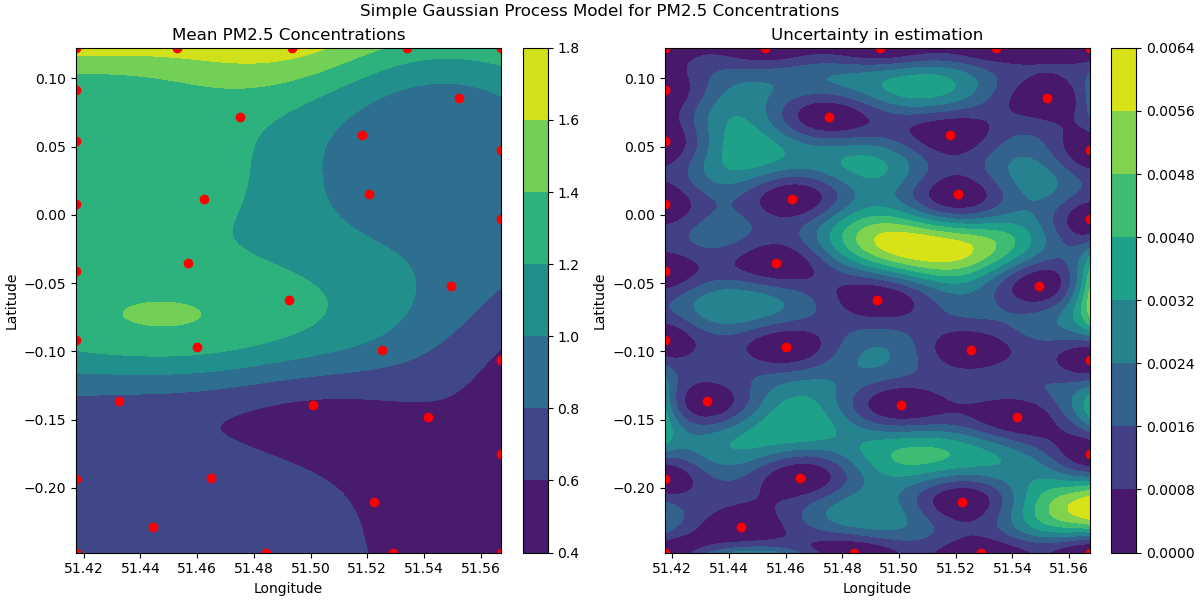
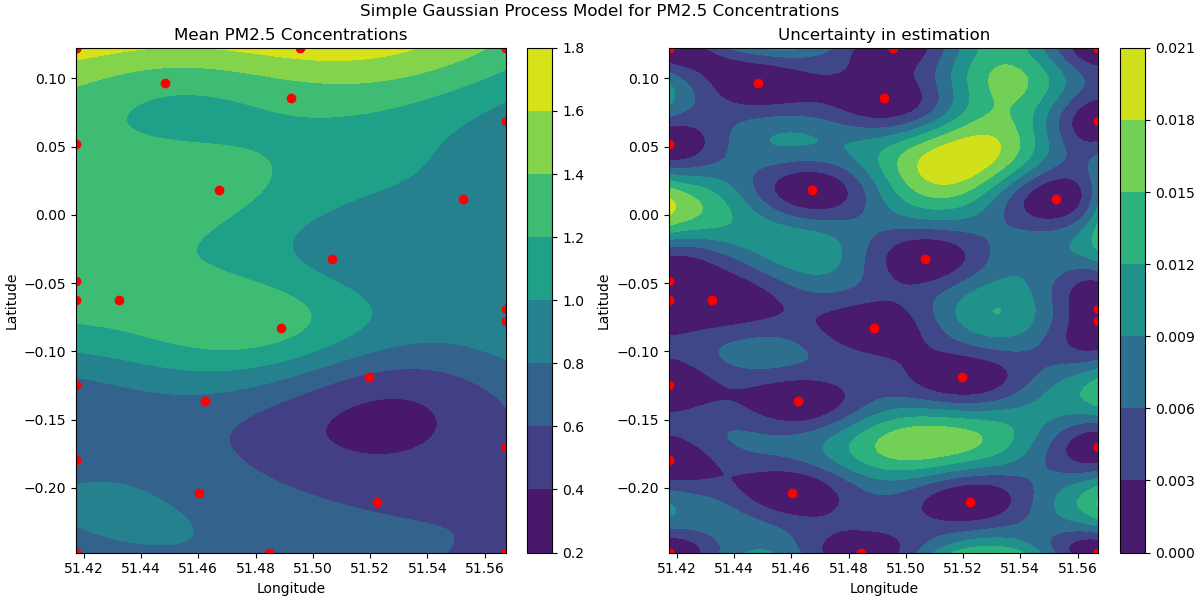
Fixed bug with lat and long being flipped

diff --git a/gaussian_process.py b/gaussian_process.py
@@ -69,8 +69,8 @@ def plot_results(model: IModel, observations: np.ndarray,
                  bounds: dict[str, tuple[float, float]]):
     lats = np.linspace(bounds["latitude"][0], bounds["latitude"][1], 1_000)
     longs = np.linspace(bounds["longitude"][0], bounds["longitude"][1], 1_000)
-    X, Y = np.meshgrid(lats, longs)
-    coords = np.column_stack([X.ravel(), Y.ravel()])
+    X, Y = np.meshgrid(longs, lats)
+    coords = np.column_stack([Y.ravel(), X.ravel()])
     mean, uncertainty = model.predict(coords)
     mean = mean.reshape((1_000, 1_000))
     uncertainty = uncertainty.reshape((1_000, 1_000))
@@ -78,14 +78,14 @@ def plot_results(model: IModel, observations: np.ndarray,
     ax1.set_title("Mean PM2.5 Concentrations")
     ax1.set_xlabel("Longitude")
     ax1.set_ylabel("Latitude")
-    cs1 = ax1.contourf(Y, X, mean)
+    cs1 = ax1.contourf(X, Y, mean)
     ax1.scatter(observations[:, 1], observations[:, 0], c="red", marker="o")
     plt.colorbar(cs1, ax=ax1)
 
     ax2.set_title("Uncertainty in estimation")
     ax2.set_xlabel("Longitude")
     ax2.set_ylabel("Latitude")
-    cs2 = ax2.contourf(Y, X, uncertainty)
+    cs2 = ax2.contourf(X, Y, uncertainty)
     ax2.scatter(observations[:, 1], observations[:, 0], c="red", marker="o")
     plt.colorbar(cs2, ax=ax2)
     fig.suptitle("Simple Gaussian Process Model for PM2.5 Concentrations")
